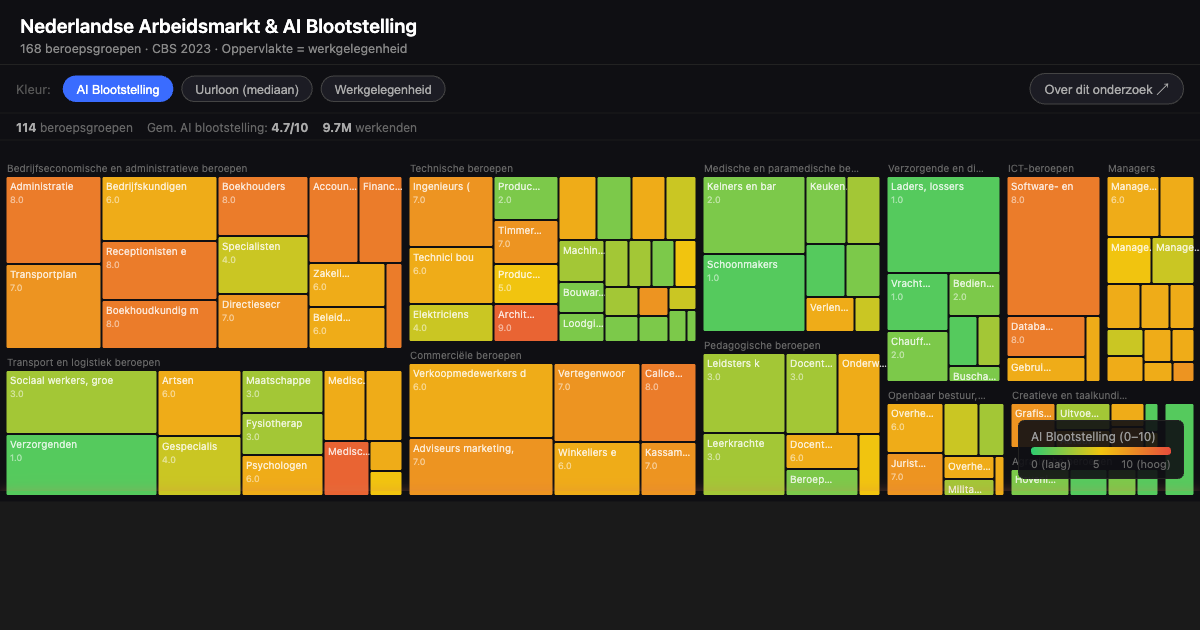
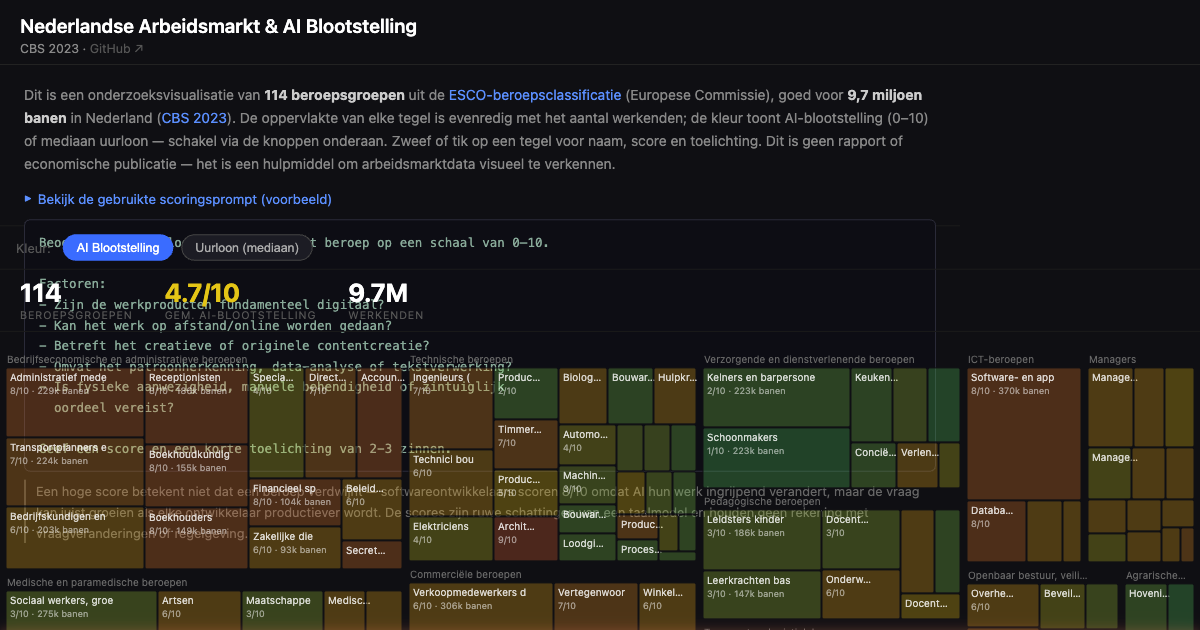
v1.5: intro sectie op hoofdpagina, nieuwe OG-preview

diff --git a/index.html b/index.html
@@ -37,16 +37,37 @@
   .stat-val { font-size: 1.6rem; font-weight: 700; color: #fff; line-height: 1.1; }
   .stat-lbl { font-size: 0.67rem; text-transform: uppercase; letter-spacing: 0.08em; color: #555; margin-top: 2px; }
 
-  #intro-bar {
-    padding: 5px 16px;
-    font-size: 0.74rem; color: #555;
+  #intro-section {
+    padding: 18px 24px 16px;
     border-bottom: 1px solid #1a1a1a;
-    white-space: nowrap; overflow: hidden; text-overflow: ellipsis;
+    font-size: 0.875rem; line-height: 1.65; color: #888;
+    max-width: 960px;
+  }
+  #intro-section p { margin-bottom: 0; }
+  #intro-section a { color: #5b8fff; text-decoration: none; }
+  #intro-section a:hover { text-decoration: underline; }
+  #intro-section details { margin-top: 10px; }
+  #intro-section summary {
+    color: #5b8fff; cursor: pointer; font-size: 0.83rem;
+    list-style: none; display: inline-flex; align-items: center; gap: 6px;
+  }
+  #intro-section summary::-webkit-details-marker { display: none; }
+  #intro-section summary::before { content: "▶"; font-size: 0.6rem; transition: transform 0.15s; }
+  #intro-section details[open] summary::before { transform: rotate(90deg); }
+  #intro-section summary:hover { color: #8abaff; }
+  #intro-section .prompt-box {
+    background: #0d0d14; border: 1px solid #2a2a38; border-radius: 6px;
+    padding: 12px 14px; font-family: monospace; font-size: 0.78rem;
+    color: #8a9; white-space: pre-wrap; margin: 10px 0 4px;
+  }
+  #intro-section .caveat {
+    font-size: 0.8rem; color: #666; margin-top: 8px;
+    border-left: 2px solid #444; padding-left: 10px;
   }
 
   #treemap-container {
     position: relative; overflow: hidden;
-    width: 100%; height: calc(100dvh - 206px);
+    width: 100%; height: calc(100dvh - 310px);
   }
   #treemap-container svg { display: block; }
 
@@ -132,14 +153,6 @@
   }
   #close-changelog:hover { color: #fff; }
 
-  /* About button */
-  #about-btn {
-    margin-left: auto; padding: 5px 14px; border-radius: 20px;
-    border: 1px solid #444; background: #1c1c24; color: #aaa;
-    cursor: pointer; font-size: 0.8rem; transition: all 0.15s;
-  }
-  #about-btn:hover { border-color: #666; color: #ddd; }
-
   /* Modal overlay */
   #about-modal {
     display: none; position: fixed; inset: 0; z-index: 200;
@@ -168,29 +181,65 @@
     background: #1e1a10; border-left: 3px solid #f1c40f;
     padding: 10px 14px; border-radius: 0 6px 6px 0; margin: 12px 0;
   }
+  #about-panel details { margin: 12px 0; }
+  #about-panel summary {
+    color: #5b8fff; cursor: pointer; font-size: 0.83rem;
+    list-style: none; display: inline-flex; align-items: center; gap: 6px;
+  }
+  #about-panel summary::-webkit-details-marker { display: none; }
+  #about-panel summary::before { content: "▶"; font-size: 0.6rem; transition: transform 0.15s; }
+  #about-panel details[open] summary::before { transform: rotate(90deg); }
+  #about-panel summary:hover { color: #8abaff; }
+  #about-panel .divider { border: none; border-top: 1px solid #2a2a38; margin: 18px 0; }
   #close-about {
     position: absolute; top: 16px; right: 20px; background: none;
     border: none; color: #666; font-size: 1.4rem; cursor: pointer; line-height: 1;
   }
   #close-about:hover { color: #fff; }
 </style>
+<!-- Privacy-friendly analytics by Plausible -->
+<script async src="https://plausible.io/js/pa-srZ-rvroOrpb6c4rtyLWV.js"></script>
 </head>
 <body>
 
 <header>
   <h1>Nederlandse Arbeidsmarkt &amp; AI Blootstelling</h1>
-  <p>CBS 2023 · Oppervlakte = werkgelegenheid</p>
+  <p>CBS 2023 &middot; <a href="https://github.com/rhoeijmakers/nl-jobs" style="color:#555;text-decoration:none;" target="_blank">GitHub ↗</a></p>
 </header>
+
+<div id="intro-section">
+  <p>Dit is een onderzoeksvisualisatie van <strong style="color:#ccc;">114 beroepsgroepen</strong> uit de
+  <a href="https://esco.ec.europa.eu/nl/classification/occupation_main" target="_blank">ESCO-beroepsclassificatie</a>
+  (Europese Commissie), goed voor <strong style="color:#ccc;">9,7 miljoen banen</strong> in Nederland
+  (<a href="https://opendata.cbs.nl/statline/#/CBS/nl/dataset/85276NED" target="_blank">CBS 2023</a>).
+  De oppervlakte van elke tegel is evenredig met het aantal werkenden; de kleur toont AI-blootstelling (0–10)
+  of mediaan uurloon — schakel via de knoppen onderaan.
+  Zweef of tik op een tegel voor naam, score en toelichting.
+  Dit is geen rapport of economische publicatie — het is een hulpmiddel om arbeidsmarktdata visueel te verkennen.</p>
+
+  <details>
+    <summary>Bekijk de gebruikte scoringsprompt (voorbeeld)</summary>
+    <div class="prompt-box">Beoordeel de AI-blootstelling van dit beroep op een schaal van 0–10.
+
+Factoren:
+- Zijn de werkproducten fundamenteel digitaal?
+- Kan het werk op afstand/online worden gedaan?
+- Betreft het creatieve of originele contentcreatie?
+- Omvat het patroonherkenning, data-analyse of tekstverwerking?
+- Is fysieke aanwezigheid, manuele behendigheid of zintuiglijk
+  oordeel vereist?
+
+Geef een score en een korte toelichting van 2-3 zinnen.</div>
+    <p class="caveat">Een hoge score betekent niet dat een beroep verdwijnt — softwareontwikkelaars scoren 8/10
+    omdat AI hun werk ingrijpend verandert, maar de vraag kan juist groeien als elke ontwikkelaar productiever wordt.
+    De scores zijn ruwe schattingen van een taalmodel en houden geen rekening met vraagveranderingen of regelgeving.</p>
+  </details>
+</div>
 
 <div id="controls">
   <span style="font-size:0.8rem;color:#555;margin-right:4px;">Kleur:</span>
   <button class="layer-btn active" data-layer="exposure">AI Blootstelling</button>
   <button class="layer-btn" data-layer="wage">Uurloon (mediaan)</button>
-  <button id="about-btn">Over dit onderzoek ↗</button>
-</div>
-
-<div id="intro-bar">
-  114 beroepsgroepen &middot; 9,7M werkenden &middot; AI-blootstelling (0&ndash;10) gescoord door Claude op ESCO-omschrijvingen &middot; klik op een tegel voor details
 </div>
 
 <div id="stats"></div>
@@ -204,68 +253,91 @@
     <button id="close-about">&times;</button>
     <h2>Over dit onderzoek</h2>
 
-    <div class="caveat">
-      <strong>Let op:</strong> Een hoge AI-blootstellingsscore betekent <em>niet</em> dat een beroep verdwijnt.
-      Softwareontwikkelaars scoren 8/10 omdat AI hun werk ingrijpend verandert — maar de vraag naar
-      ontwikkelaars kan juist groeien als elke ontwikkelaar productiever wordt.
-    </div>
+    <p>Dit is een onderzoeksvisualisatie van 114 beroepsgroepen uit de
+    <a href="https://esco.ec.europa.eu/nl/classification/occupation_main" target="_blank">ESCO-beroepsclassificatie</a>
+    (Europese Commissie), goed voor 9,7 miljoen banen in de Nederlandse economie
+    op basis van <a href="https://opendata.cbs.nl/statline/#/CBS/nl/dataset/85276NED" target="_blank">CBS-data 2023</a>.
+    De oppervlakte van elke tegel is evenredig met het aantal werkenden.
+    De kleur toont de geselecteerde maatstaf — wissel tussen AI-blootstelling en mediaan uurloon
+    (<a href="https://opendata.cbs.nl/statline/#/CBS/nl/dataset/85517NED" target="_blank">CBS 2023</a>).
+    Zweef of klik op een tegel voor details.
+    Dit is geen rapport, geen onderzoekspaper en geen serieuze economische publicatie —
+    het is een hulpmiddel om arbeidsmarktdata visueel te verkennen.</p>
 
-    <h3>Wat meet AI Blootstelling?</h3>
-    <p>De score (0–10) geeft aan in welke mate huidige AI-technologie — taalmodellen, computervisie,
-    robotica — de taken binnen een beroepsgroep al kan uitvoeren of transformeert. De schaal:</p>
-    <ul>
-      <li><strong>0–1:</strong> Minimaal. Fysiek, manueel of vereist constante aanwezigheid ter plaatse.</li>
-      <li><strong>2–3:</strong> Laag. Enkele routinetaken automatiseerbaar, kern vereist menselijk oordeel.</li>
-      <li><strong>4–5:</strong> Matig. Mix van automatiseerbare en niet-automatiseerbare taken.</li>
-      <li><strong>6–7:</strong> Hoog. Veel taken zijn digitaal of kennisgebaseerd en worden al getransformeerd.</li>
-      <li><strong>8–9:</strong> Zeer hoog. Meeste werkproducten zijn digitaal; AI kan meeste taken overnemen.</li>
-      <li><strong>10:</strong> Maximum. Werk is nagenoeg geheel digitaal en repetitief.</li>
-    </ul>
+    <hr class="divider">
 
-    <h3>Hoe zijn de scores bepaald?</h3>
-    <p>Elke beroepsgroep is gescoord door <strong>Claude (Anthropic)</strong> op basis van de officiële
-    ESCO-beroepsomschrijving. Het gebruikte scoringsprompt:</p>
-    <div class="prompt-box">Beoordeel de AI-blootstelling van dit beroep op een schaal van 0–10.
+    <p><strong>Door AI gescoord:</strong> De
+    <a href="https://github.com/rhoeijmakers/nl-jobs" target="_blank">broncode</a>
+    bevat scrapers en een scoringspipeline waarmee je via een prompt aan
+    Claude (Anthropic) elke beroepsgroep een score kunt laten geven.
+    Je schrijft een prompt, Claude scoort elke beroepsgroep, en de treemap kleurt dienovereenkomstig.
+    De optie <em>AI Blootstelling</em> is één voorbeeld — het schat in hoeverre huidige AI
+    (die primair digitaal werkt) elk beroep zal transformeren.
+    Maar je kunt een andere prompt schrijven voor elke vraag —
+    bijv. blootstelling aan humanoid robotics, risico op offshoring, impact van de energietransitie —
+    en de pipeline opnieuw draaien voor een andere kleurlaag.</p>
+
+    <details>
+      <summary>Bekijk de gebruikte scoringsprompt (voorbeeld)</summary>
+      <div class="prompt-box" style="margin-top:10px">Beoordeel de AI-blootstelling van dit beroep op een schaal van 0–10.
+
 Factoren:
 - Zijn de werkproducten fundamenteel digitaal?
 - Kan het werk op afstand/online worden gedaan?
 - Betreft het creatieve of originele contentcreatie?
 - Omvat het patroonherkenning, data-analyse of tekstverwerking?
 - Is fysieke aanwezigheid, manuele behendigheid of zintuiglijk
-  oordeel vereist?</div>
-    <p>Zweef over een beroepsgroep om de volledige redenering van het model te zien.</p>
+  oordeel vereist?
 
-    <h3>Databronnen</h3>
-    <ul>
-      <li><strong>Beroepsindeling:</strong> <a href="https://esco.ec.europa.eu/nl/classification/occupation_main" target="_blank">ESCO v1.2</a> (Europese Commissie)</li>
-      <li><strong>Werkgelegenheid:</strong> <a href="https://opendata.cbs.nl/statline/#/CBS/nl/dataset/85276NED" target="_blank">CBS 85276NED</a> — Enquête Beroepsbevolking 2023</li>
-      <li><strong>Lonen:</strong> <a href="https://opendata.cbs.nl/statline/#/CBS/nl/dataset/85517NED" target="_blank">CBS 85517NED</a> — Arbeidsmarkt in Cijfers 2023</li>
-      <li><strong>AI-scoring:</strong> Claude (Anthropic), gescoord op ESCO-omschrijvingen</li>
-    </ul>
+Geef een score en een korte toelichting van 2-3 zinnen.</div>
+    </details>
 
-    <h3>Beperkingen</h3>
-    <ul>
-      <li>Scores zijn gebaseerd op <em>huidige</em> AI-mogelijkheden, niet toekomstige ontwikkelingen.</li>
-      <li>ESCO-groepen zijn breed; binnen één groep kan de blootstelling sterk variëren.</li>
-      <li>Loondata voor ~36% van de groepen is afgeleid van de bovenliggende CBS-categorie (te kleine steekproef).</li>
-      <li>Werkgelegenheid betreft werkzame beroepsbevolking 15–75 jaar, CBS 2023.</li>
-    </ul>
+    <hr class="divider">
 
-    <h3>Broncode</h3>
-    <p>Volledig reproduceerbaar: <a href="https://github.com/rhoeijmakers/nl-jobs" target="_blank">github.com/rhoeijmakers/nl-jobs</a><br>
-    Gebaseerd op het concept van <a href="https://karpathy.ai/jobs/" target="_blank">Andrej Karpathy</a> /
-    <a href="https://github.com/mariodian/jobs" target="_blank">mariodian/jobs</a>.</p>
+    <div class="caveat">
+      <strong>Kanttekening bij AI-blootstellingsscores:</strong> Dit zijn ruwe schattingen van een
+      taalmodel, geen rigoureuze voorspellingen. Een hoge score betekent <em>niet</em> dat een beroep
+      verdwijnt. Softwareontwikkelaars scoren 8/10 omdat AI hun werk ingrijpend verandert —
+      maar de vraag naar ontwikkelaars kan juist groeien als elke ontwikkelaar productiever wordt.
+      De score houdt geen rekening met vraagveranderingen, latente vraag, regelgeving of
+      sociale voorkeur voor menselijke arbeid. Veel beroepen met een hoge score zullen
+      <em>veranderen</em>, niet verdwijnen.
+    </div>
+
+    <hr class="divider">
+
+    <p style="font-size:0.78rem;color:#666;">
+      Broncode: <a href="https://github.com/rhoeijmakers/nl-jobs" target="_blank">github.com/rhoeijmakers/nl-jobs</a> ·
+      Gebaseerd op het concept van <a href="https://karpathy.ai/jobs/" target="_blank">Andrej Karpathy</a> /
+      <a href="https://github.com/mariodian/jobs" target="_blank">mariodian/jobs</a>
+    </p>
   </div>
 </div>
 
 <div id="footer-bar">
-  <button id="changelog-btn">v1.3 &middot; Wijzigingen ↗</button>
+  <button id="changelog-btn">v1.5 &middot; Wijzigingen ↗</button>
 </div>
 
 <div id="changelog-modal">
   <div id="changelog-panel">
     <button id="close-changelog">&times;</button>
     <h2>Versiegeschiedenis</h2>
+
+    <h3>v1.5 — maart 2026</h3>
+    <ul>
+      <li>Introductietekst zichtbaar op de hoofdpagina (niet meer achter een knop)</li>
+      <li>Scoringsprompt uitklapbaar direct onder de introductie</li>
+      <li>Nieuwe OG-preview afbeelding bijgewerkt</li>
+    </ul>
+
+    <h3>v1.4 — maart 2026</h3>
+    <ul>
+      <li>Toelichting 'Over dit onderzoek' herschreven in karpathy-stijl</li>
+      <li>Scoringsprompt zichtbaar als uitklapbare sectie</li>
+      <li>Tegellabels tonen score én aantal banen (bijv. 8/10 · 287k banen)</li>
+      <li>Knop 'Werkgelegenheid' verwijderd</li>
+      <li>Plausible analytics toegevoegd</li>
+    </ul>
 
     <h3>v1.3 — maart 2026</h3>
     <ul>
@@ -549,7 +621,6 @@ document.getElementById("treemap-container").addEventListener("touchstart", e =>
 
 // About modal
 const modal = document.getElementById("about-modal");
-document.getElementById("about-btn").addEventListener("click", () => modal.classList.add("open"));
 document.getElementById("close-about").addEventListener("click", () => modal.classList.remove("open"));
 modal.addEventListener("click", e => { if (e.target === modal) modal.classList.remove("open"); });
 
